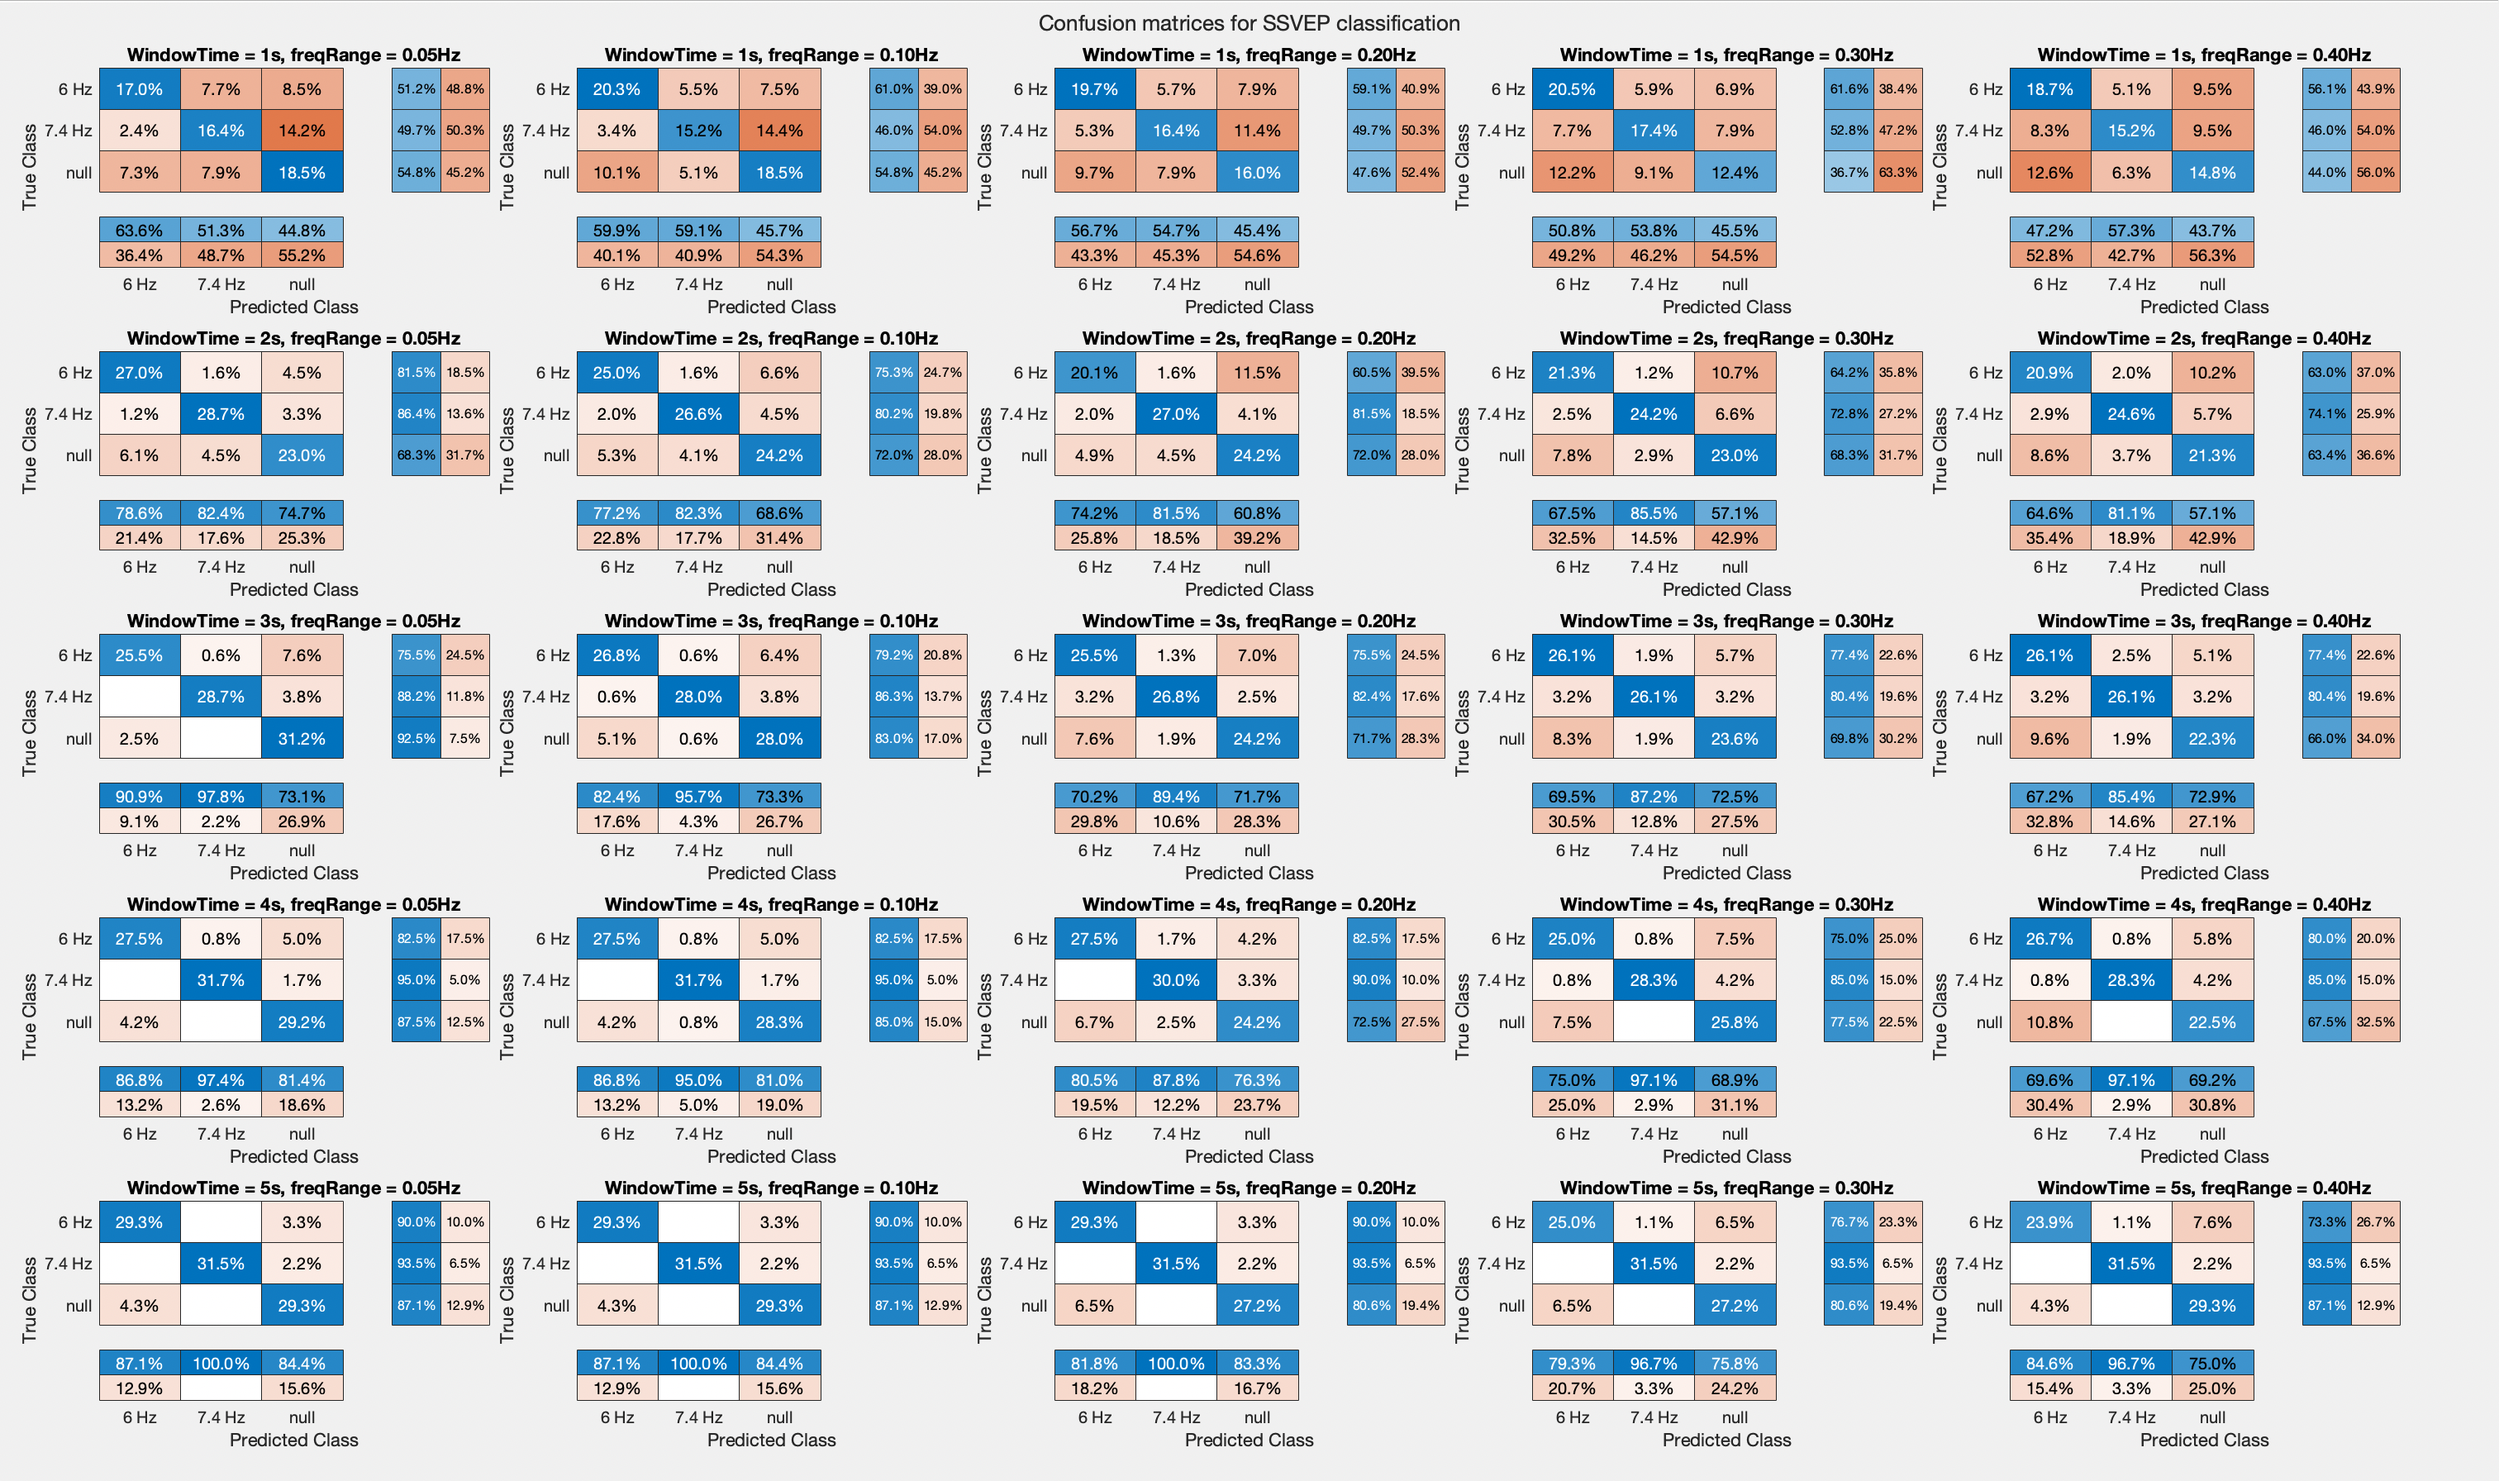
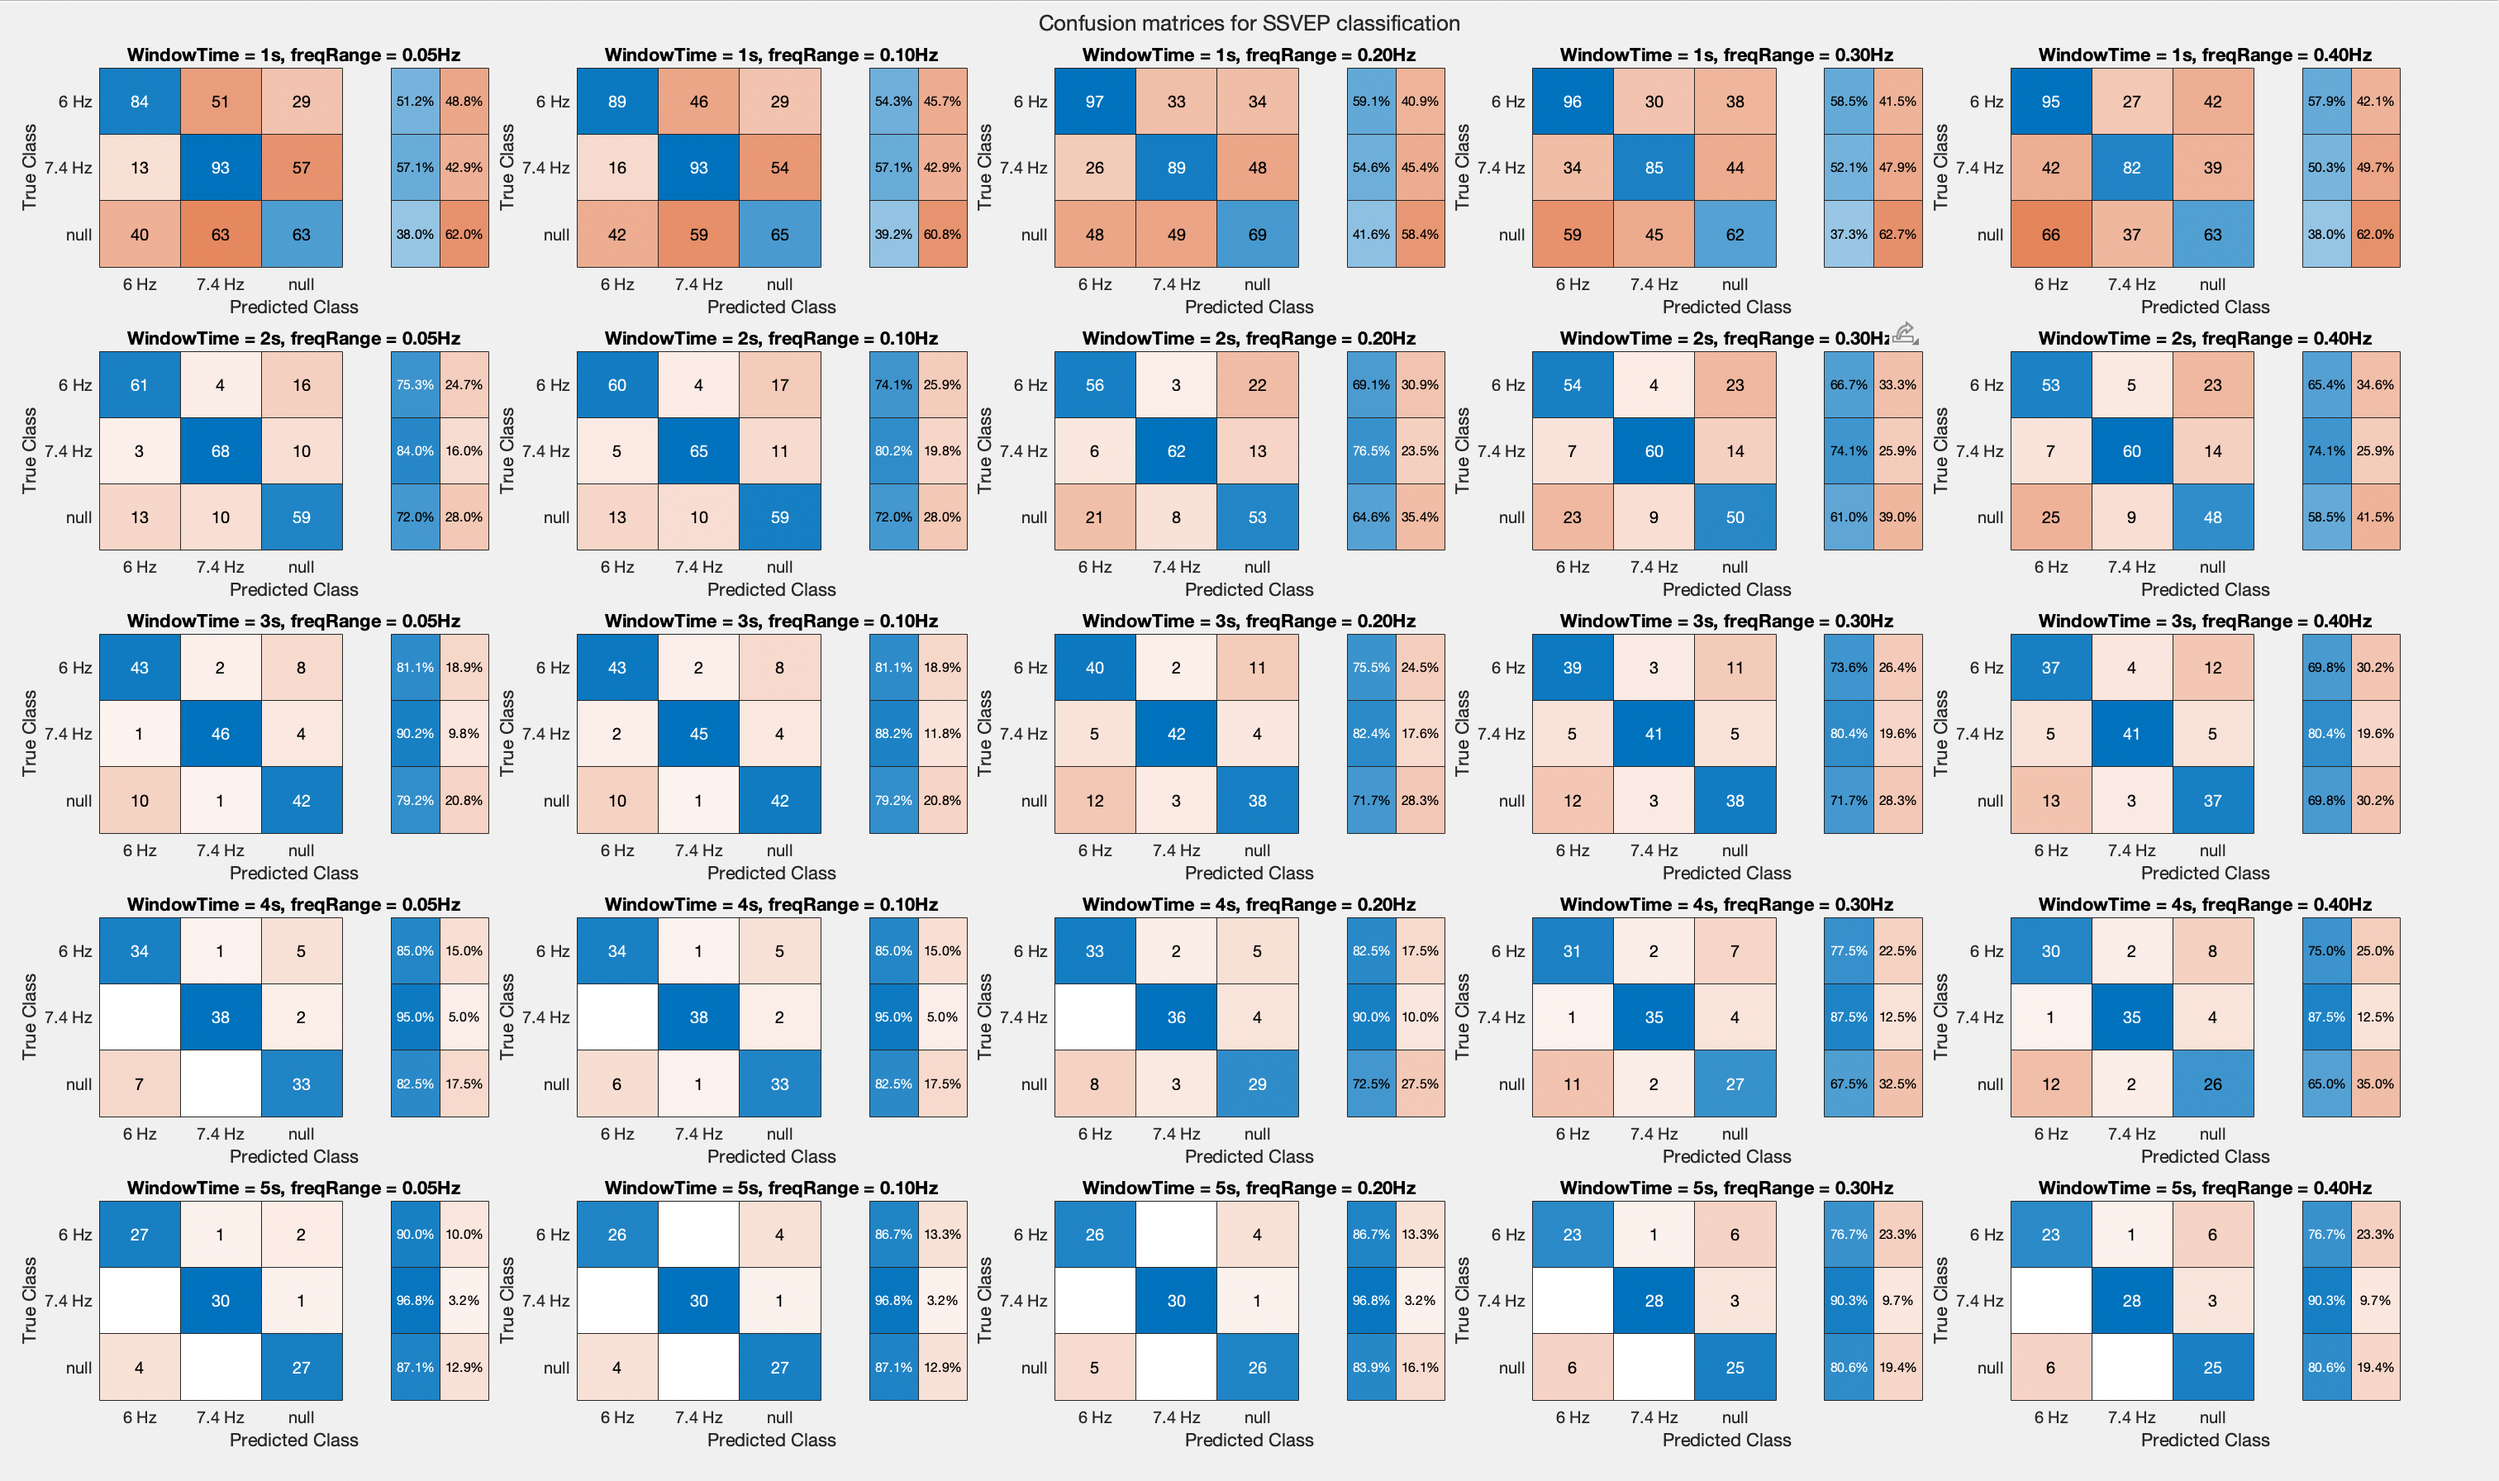
changed threshold optimization algorithm

Changed region(s): [[0.0311, 0.0312, 0.9636, 1.0], [0.3419, 0.8125, 0.373, 0.8438]]

diff --git a/ROC_curves.m b/ROC_curves.m
@@ -24,15 +24,18 @@ for targetFreq = targetFreqs
                 windowTime, freqRange), sprintf("AUC = %.3f", AUC))
             xlabel('False positive rate')
             ylabel('True positive rate')
+            
 
-            ROCpoints = cat(2,fpr,tpr);
-            
-            distanceToAngleCooridnates = ROCpoints - [0 1];
-            distanceToAngle = sqrt(sum(distanceToAngleCooridnates.^2, 2));
-            idxMinDistanceToAngle = find(min(distanceToAngle)==distanceToAngle);
-            
+%             ROCpoints = cat(2,fpr,tpr);
+%             distanceToAngleCooridnates = ROCpoints - [0 1];
+%             distanceToAngle = sqrt(sum(distanceToAngleCooridnates.^2, 2));
+%             idxMinDistanceToAngle = find(min(distanceToAngle)==distanceToAngle);
+
+            distances = abs(1-fpr-tpr);
+            [~, idx] = min(distances);
             hold on
-            plot(fpr(idxMinDistanceToAngle), tpr(idxMinDistanceToAngle), 'x')
+            plot([0 1], [1 0], 'k--')
+            plot(fpr(idx), tpr(idx), 'rd')
         end
     end
     title(t, sprintf("ROC curves for %.1f Hz SSVEP detection.", targetFreq))

diff --git a/find_best_threshold.m b/find_best_threshold.m
@@ -2,7 +2,7 @@ function threshold = find_best_threshold(X, Y, posClass)
 % Returns the threshold with the ROC point nearest to (0,1)
 
     [fpr,tpr,T] = perfcurve(Y,X,posClass);            
-    ROCpoints = cat(2,fpr,tpr);
-    distanceToAngle = sqrt(sum((ROCpoints - [0 1]).^2, 2));
-    threshold = T(min(distanceToAngle)==distanceToAngle);
+    distances = abs(1-fpr-tpr);
+    [~, idx] = min(distances);
+    threshold = T(idx);
 end

diff --git a/ssvep_classification.m b/ssvep_classification.m
@@ -25,8 +25,6 @@ for windowTime = windowTimes
         C = confusionmat(Y, y_pred, "Order", [1 2 0]);
         cm = confusionchart(C,["6 Hz" "7.4 Hz" "null"]);
         cm.RowSummary = 'row-normalized';
-        cm.ColumnSummary = 'column-normalized';
-        cm.Normalization = 'total-normalized';
         cm.Title = sprintf("WindowTime = %ds, freqRange = %.2fHz", windowTime, freqRange);
     end
 end
